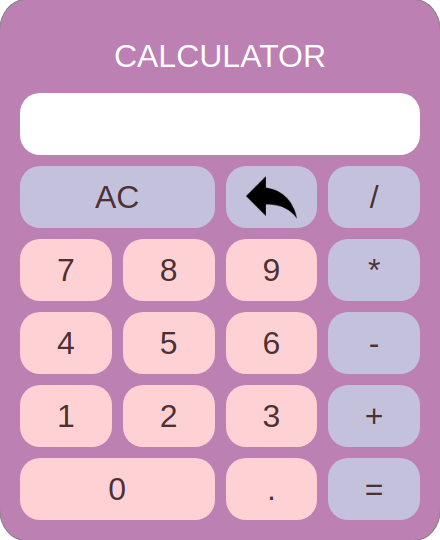
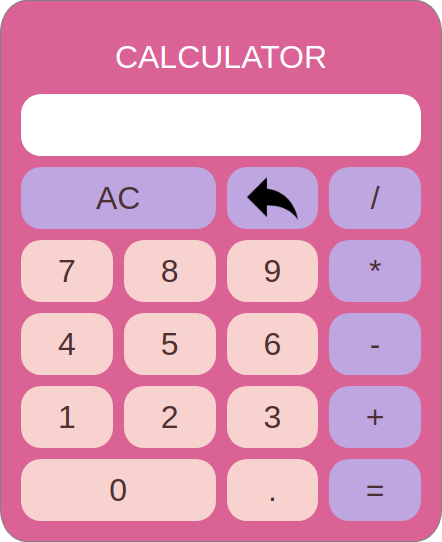
change calculator colors

diff --git a/index.css b/index.css
@@ -16,7 +16,7 @@ html, body {
   border-radius: 6%;
   grid-gap: 11px;
   padding: 20px;
-  background-color: #bc88b2;
+  background-color: palevioletred;
 }
 .box {
   text-align: center;
@@ -29,10 +29,10 @@ html, body {
   font-size: 2rem;
 }
 .color1 {
-  background-color: #ffd4d4;
+  background-color: #f9d4cf;
 }
 .color2 {
-  background-color: #c2c3db;
+  background-color: #bcace0;
 }
 #back-arrow:hover {
   width: 60px;
